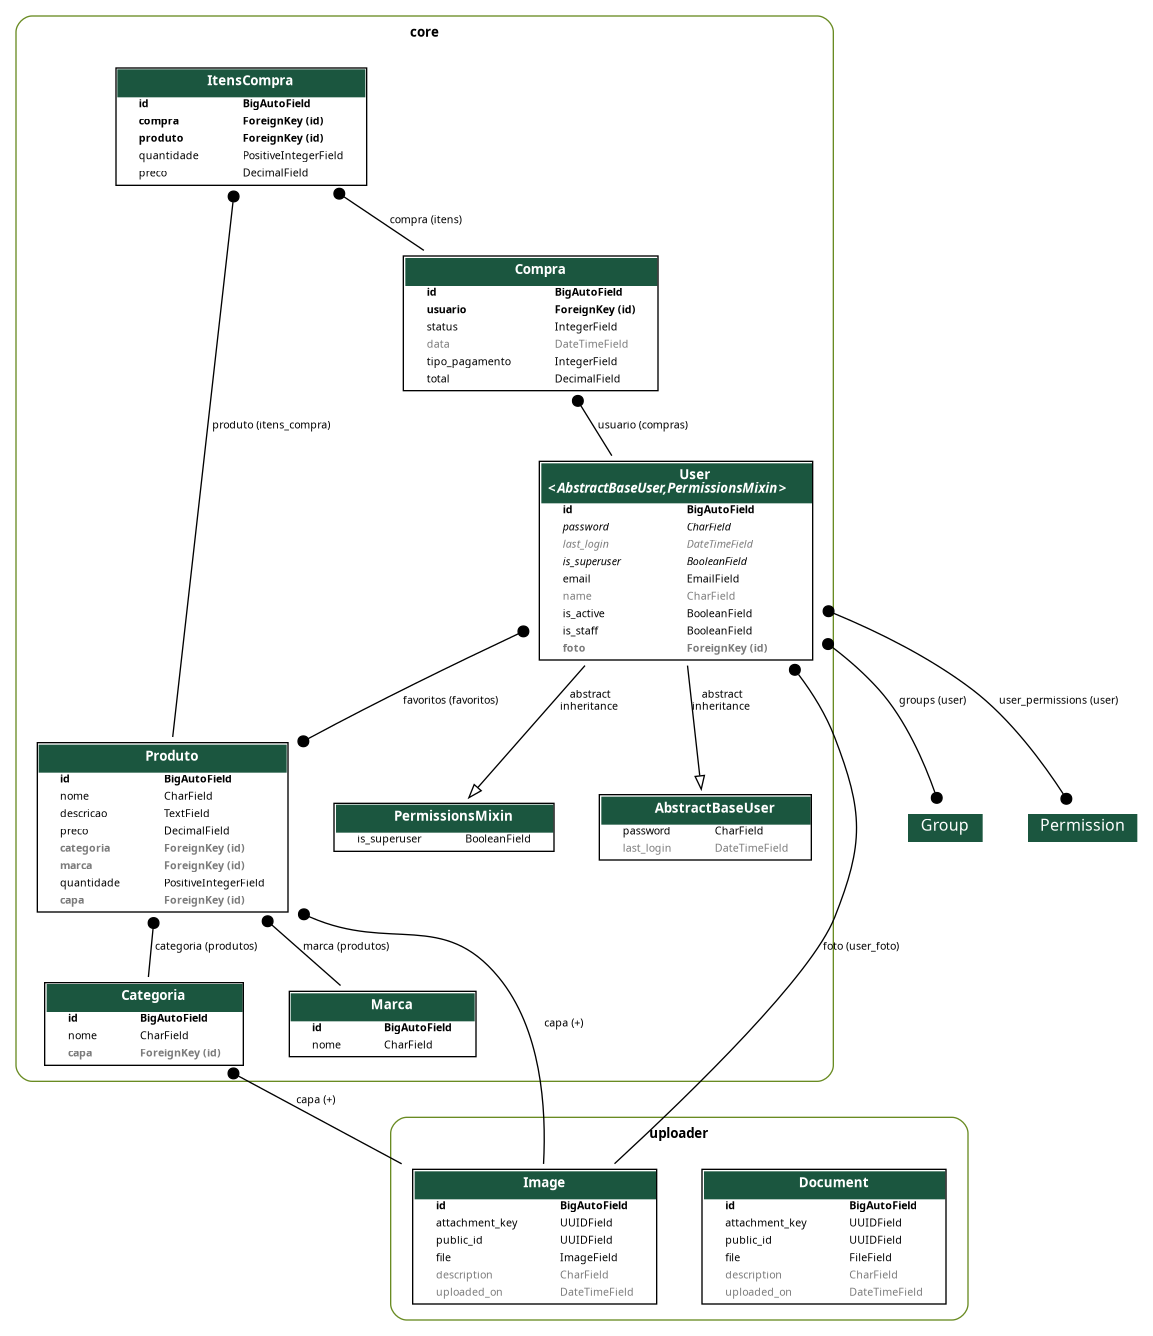
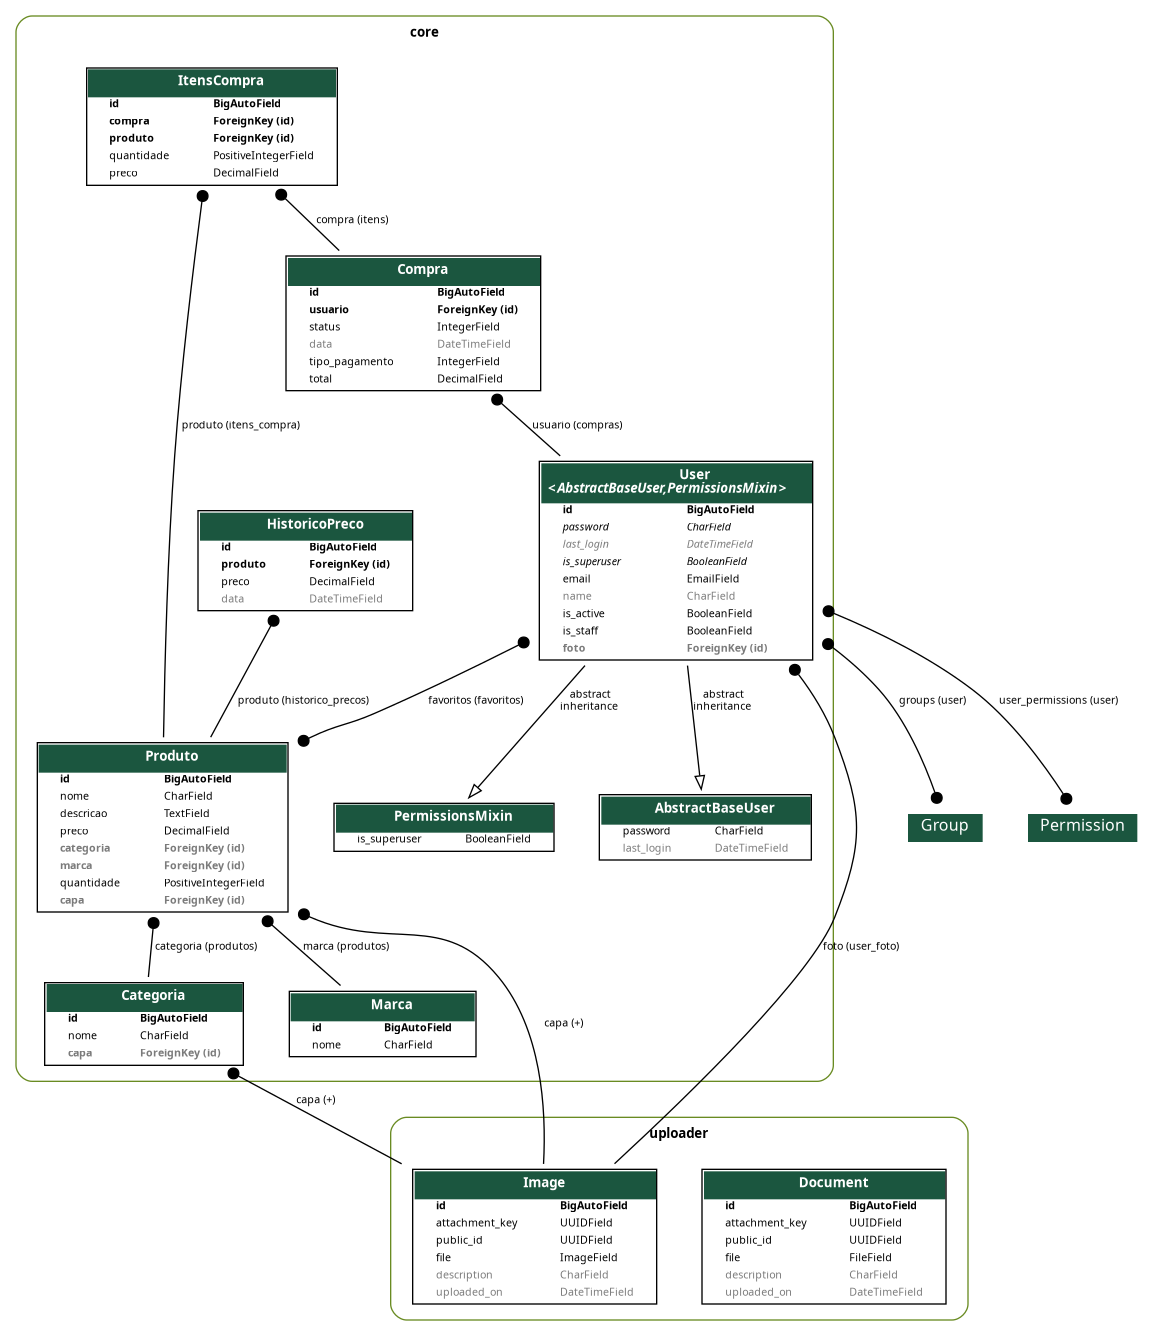
Feat 6: Criação e finalização do registro de preço do produto

diff --git a/core/models/produto.py b/core/models/produto.py
@@ -1,4 +1,4 @@
-from django.db import models
+from django.db import models, transaction
 
 from uploader.models import Image
 
@@ -6,12 +6,65 @@ from .categoria import Categoria
 from .marca import Marca
 
 
+class ProdutoQuerySet(models.QuerySet):
+    @transaction.atomic
+    def update(self, **kwargs):
+        if 'preco' not in kwargs:
+            return super().update(**kwargs)
+
+        # guarda os ids e preços antes, porque o filtro pode depender do próprio preço
+        antigos = dict(self.values_list('pk', 'preco'))
+        linhas = super().update(**kwargs)
+
+        # relê do banco, pois o novo valor pode ser uma expressão (ex: F('preco') * 1.1)
+        novos = Produto.objects.filter(pk__in=antigos).values_list('pk', 'preco')
+        HistoricoPreco.objects.bulk_create(
+            [
+                HistoricoPreco(produto_id=pk, preco=preco)
+                for pk, preco in novos
+                if antigos[pk] != preco
+            ]
+        )
+        return linhas
+
+    @transaction.atomic
+    def bulk_update(self, objs, fields, *args, **kwargs):
+        objs = list(objs)
+        if 'preco' not in fields:
+            return super().bulk_update(objs, fields, *args, **kwargs)
+
+        antigos = dict(
+            Produto.objects.filter(pk__in=[o.pk for o in objs]).values_list('pk', 'preco')
+        )
+        linhas = super().bulk_update(objs, fields, *args, **kwargs)
+        HistoricoPreco.objects.bulk_create(
+            [
+                HistoricoPreco(produto_id=o.pk, preco=o.preco)
+                for o in objs
+                if antigos.get(o.pk) != o.preco
+            ]
+        )
+        return linhas
+
+    @transaction.atomic
+    def bulk_create(self, objs, *args, **kwargs):
+        objs = super().bulk_create(objs, *args, **kwargs)
+        HistoricoPreco.objects.bulk_create(
+            [HistoricoPreco(produto_id=o.pk, preco=o.preco) for o in objs if o.pk]
+        )
+        return objs
+
+
 class Produto(models.Model):
     nome = models.CharField(max_length=100)
     descricao = models.TextField()
     preco = models.DecimalField(max_digits=10, decimal_places=2)
-    categoria = models.ForeignKey(Categoria, on_delete=models.PROTECT, related_name='produtos', null=True, blank=True)
-    marca = models.ForeignKey(Marca, on_delete=models.PROTECT, related_name='produtos', null=True, blank=True)
+    categoria = models.ForeignKey(
+        Categoria, on_delete=models.PROTECT, related_name='produtos', null=True, blank=True
+    )
+    marca = models.ForeignKey(
+        Marca, on_delete=models.PROTECT, related_name='produtos', null=True, blank=True
+    )
     quantidade = models.PositiveIntegerField(default=0)
     capa = models.ForeignKey(
         Image,
@@ -22,5 +75,33 @@ class Produto(models.Model):
         default=None,
     )
 
+    objects = ProdutoQuerySet.as_manager()
+
     def __str__(self):
-        return f'{self.nome} - {self.categoria.nome} - {self.preco} - {self.marca} - {self.quantidade}'
+        return f'{self.nome} - {self.categoria} - {self.preco} - {self.marca} - {self.quantidade}'
+
+    @transaction.atomic
+    def save(self, *args, **kwargs):
+        preco_antigo = None
+        if self.pk:
+            preco_antigo = (
+                Produto.objects.filter(pk=self.pk).values_list('preco', flat=True).first()
+            )
+
+        super().save(*args, **kwargs)
+
+        # grava no histórico na criação e sempre que o preço mudar
+        if preco_antigo is None or preco_antigo != self.preco:
+            self.historico_precos.create(preco=self.preco)
+
+
+class HistoricoPreco(models.Model):
+    produto = models.ForeignKey(Produto, on_delete=models.CASCADE, related_name='historico_precos')
+    preco = models.DecimalField(max_digits=10, decimal_places=2)
+    data = models.DateTimeField(auto_now_add=True)
+
+    class Meta:
+        ordering = ['-data']
+
+    def __str__(self):
+        return f'{self.produto.nome} - R$ {self.preco} ({self.data:%d/%m/%Y})'

diff --git a/core/views/produto.py b/core/views/produto.py
@@ -4,12 +4,13 @@ from drf_spectacular.utils import OpenApiResponse, extend_schema
 from rest_framework import status
 from rest_framework.decorators import action
 from rest_framework.filters import OrderingFilter, SearchFilter
+from rest_framework.permissions import IsAuthenticated
 from rest_framework.response import Response
 from rest_framework.viewsets import ModelViewSet
-from rest_framework.permissions import IsAuthenticated
 
 from core.models import Compra, Produto
 from core.serializers import (
+    HistoricoPrecoSerializer,
     ProdutoAjustarEstoqueSerializer,
     ProdutoAlterarPrecoSerializer,
     ProdutoListSerializer,
@@ -109,16 +110,14 @@ class ProdutoViewSet(ModelViewSet):
         return Response(
             {'status': 'Quantidade ajustada com sucesso', 'novo_estoque': produto.quantidade}, status=status.HTTP_200_OK
         )
+
     @action(detail=True, methods=['post'], permission_classes=[IsAuthenticated])
     def favoritar(self, request, pk=None):
         produto = self.get_object()
         usuario = request.user
 
         if usuario.favoritos.filter(pk=produto.pk).exists():
-            return Response(
-                status=status.HTTP_400_BAD_REQUEST,
-                data={'status': 'Produto já está nos favoritos'}
-            )
+            return Response(status=status.HTTP_400_BAD_REQUEST, data={'status': 'Produto já está nos favoritos'})
 
         usuario.favoritos.add(produto)
         return Response(status=status.HTTP_200_OK, data={'status': 'Produto favoritado'})
@@ -129,10 +128,13 @@ class ProdutoViewSet(ModelViewSet):
         usuario = request.user
 
         if not usuario.favoritos.filter(pk=produto.pk).exists():
-            return Response(
-                status=status.HTTP_400_BAD_REQUEST,
-                data={'status': 'Produto não está nos favoritos'}
-            )
+            return Response(status=status.HTTP_400_BAD_REQUEST, data={'status': 'Produto não está nos favoritos'})
 
         usuario.favoritos.remove(produto)
         return Response(status=status.HTTP_200_OK, data={'status': 'Produto removido dos favoritos'})
+
+    @action(detail=True, methods=['get'])
+    def historico(self, request, pk=None):
+        produto = self.get_object()
+        serializer = HistoricoPrecoSerializer(produto.historico_precos.all(), many=True)
+        return Response(serializer.data)

diff --git a/core/migrations/0023_historicopreco.py b/core/migrations/0023_historicopreco.py
@@ -1,0 +1,26 @@
+# Generated by Django 5.2.13 on 2026-11-04 11:31
+
+import django.db.models.deletion
+from django.db import migrations, models
+
+
+class Migration(migrations.Migration):
+
+    dependencies = [
+        ('core', '0022_user_favoritos'),
+    ]
+
+    operations = [
+        migrations.CreateModel(
+            name='HistoricoPreco',
+            fields=[
+                ('id', models.BigAutoField(auto_created=True, primary_key=True, serialize=False, verbose_name='ID')),
+                ('preco', models.DecimalField(decimal_places=2, max_digits=10)),
+                ('data', models.DateTimeField(auto_now_add=True)),
+                ('produto', models.ForeignKey(on_delete=django.db.models.deletion.CASCADE, related_name='historico_precos', to='core.produto')),
+            ],
+            options={
+                'ordering': ['-data'],
+            },
+        ),
+    ]

diff --git a/core/serializers/produto.py b/core/serializers/produto.py
@@ -7,7 +7,7 @@ from rest_framework.serializers import (
     ValidationError,
 )
 
-from core.models import Produto
+from core.models import HistoricoPreco, Produto
 from uploader.models import Image
 from uploader.serializers import ImageSerializer
 
@@ -79,3 +79,9 @@ class ProdutoAjustarEstoqueSerializer(Serializer):
             if nova_quantidade < 0:
                 raise ValidationError('A quantidade em estoque não pode ser negativa.')
         return value
+
+
+class HistoricoPrecoSerializer(ModelSerializer):
+    class Meta:
+        model = HistoricoPreco
+        fields = ('preco', 'data')

diff --git a/core/serializers/user.py b/core/serializers/user.py
@@ -1,6 +1,6 @@
 from rest_framework.serializers import CharField, ModelSerializer, SlugRelatedField
 
-from core.models import User, Produto
+from core.models import User
 from uploader.models import Image
 from uploader.serializers import ImageSerializer
 
@@ -42,6 +42,7 @@ class UserRegistrationSerializer(ModelSerializer):
 
     def create(self, validated_data):
         return User.objects.create_user(**validated_data)
+
 
 class FavoritoSerializer(ModelSerializer):
     class Meta:

diff --git a/core/models/compra.py b/core/models/compra.py
@@ -31,9 +31,9 @@ class Compra(models.Model):
             self.total = sum(item.preco * item.quantidade for item in self.itens.all())
         super().save(*args, **kwargs)
 
-    #@property
-    #def total(self):
-        #return sum(item.preco * item.quantidade for item in self.itens.all())
+    # @property
+    # def total(self):
+    # return sum(item.preco * item.quantidade for item in self.itens.all())
 
 
 class ItensCompra(models.Model):

diff --git a/core/serializers/__init__.py b/core/serializers/__init__.py
@@ -6,6 +6,7 @@ from .produto import (
     ProdutoSerializer,
     ProdutoMaisVendidoSerializer,
     ProdutoAjustarEstoqueSerializer,
+    HistoricoPrecoSerializer
 )
 from .categoria import CategoriaSerializer
 from .marca import MarcaSerializer

diff --git a/core/models/__init__.py b/core/models/__init__.py
@@ -1,5 +1,5 @@
 from .user import User
-from .produto import Produto
+from .produto import Produto, HistoricoPreco
 from .categoria import Categoria
 from .marca import Marca
 from .compra import Compra, ItensCompra

diff --git a/core/models/user.py b/core/models/user.py
@@ -11,6 +11,7 @@ from django.db import models
 from django.utils.translation import gettext_lazy as _
 
 from uploader.models import Image
+
 from .produto import Produto
 
 

diff --git a/core/serializers/compra.py b/core/serializers/compra.py
@@ -1,5 +1,4 @@
 from django.db import transaction
-
 from rest_framework.serializers import (
     CharField,
     CurrentUserDefault,
